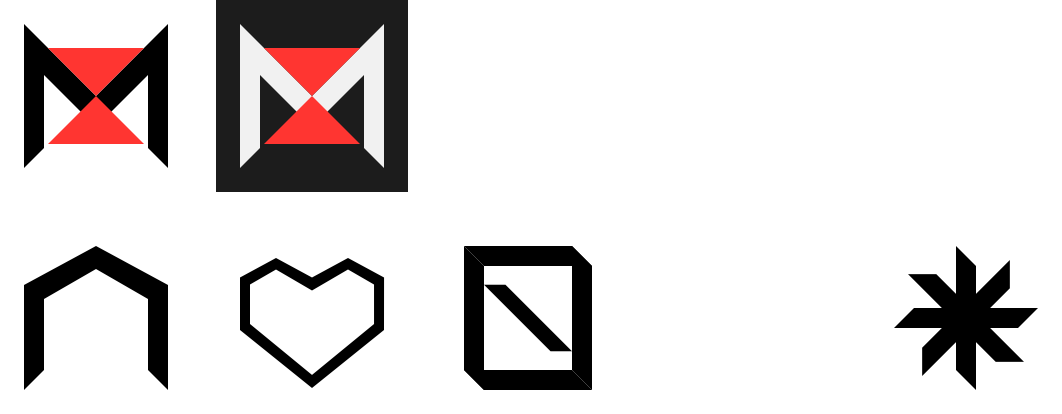
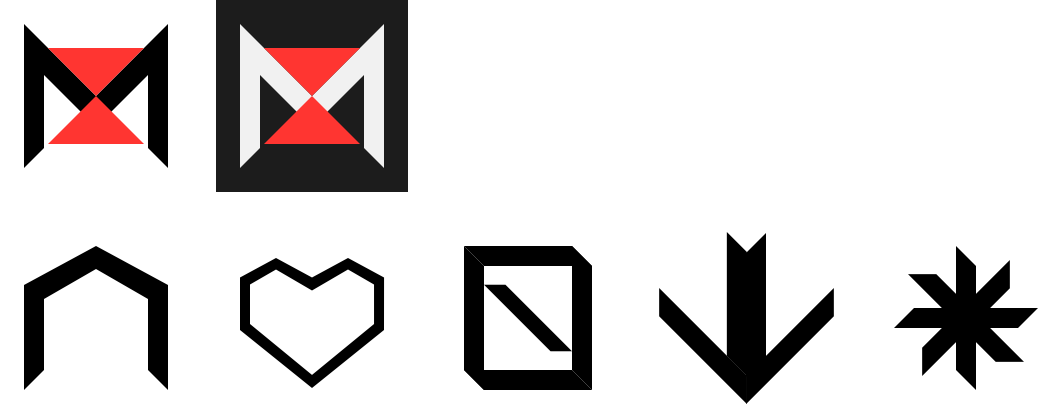
tests

Changed region(s): [[0.6215, 0.5507, 0.8079, 0.9855]]

diff --git a/main.js b/main.js
@@ -1,0 +1,95 @@
+class Manga {
+  id = 0;
+  name = '';
+  description = '';
+  chapters = [];
+  coverLink = '';
+  tags = [];
+
+  constructor() {}
+}
+
+function loadManga(manga) {
+  console.log('loading ' + manga.name);
+}
+
+function createMangaLink(manga) {
+  const but = document.createElement('button');
+  const img = document.createElement('img');
+  but.appendChild(img);
+  img.src = manga.coverLink;
+  img.loading = 'lazy';
+  but.addEventListener('click', () => loadManga(manga));
+  return but;
+}
+function createGallery(p_title) {
+  const title = document.createElement('h2');
+  const gallery = document.createElement('div');
+  const galleryContainer = document.createElement('div');
+
+  title.appendChild(document.createTextNode(p_title));
+  galleryContainer.appendChild(title);
+  galleryContainer.appendChild(gallery);
+  gallery.classList.add('gallery');
+  galleryContainer.classList.add('galleryContainer');
+  return galleryContainer;
+}
+
+addEventListener('load', () => {
+  const content = document.querySelector('.content');
+
+  let manga = new Manga();
+  manga.name = 'Murder License Kiba';
+  manga.coverLink =
+    'https://avt.mkklcdnv3.com/avatar_225/18497-murder_license_kiba.jpg';
+  manga.chapters.push(
+    ...`Murder License Kiba - Chapter 16: Shikisoku Zekuu
+Murder License Kiba - Chapter 15: Iron Lady
+Murder License Kiba - Chapter 14: Fangs In The Raging Sea!!
+Murder License Kiba - Chapter 13: The Tiananmen Square Incident
+Murder License Kiba - Chapter 12: A Dark Religion
+Murder License Kiba - Chapter 11: The World's Strongest
+Murder License Kiba - Chapter 10: The Heisei Revolution
+Murder License Kiba - Chapter 9: Diamond Hitman(Unfinished Translation)
+Murder License Kiba - Chapter 8: Kiba In Ny (Part 2)
+Murder License Kiba - Chapter 7: Kiba In Ny (Part 1)
+Murder License Kiba - Chapter 6: Fangs In The Jungle!
+Murder License Kiba - Chapter 5: Vestiges Of The Mother, Woman Of The Shadows
+Murder License Kiba - Chapter 4: Demonic Human Experiments
+Murder License Kiba - Chapter 3: An Unknown Woman
+Murder License Kiba - Vol.1 Chapter 2 : Red Tiger
+Murder License Kiba - Vol.1 Chapter 1 : The Man With The Murder License!!`.split(
+      '\n'
+    )
+  );
+  let gal = createGallery('testing');
+  for (let i = 0; i < 100; ++i) {
+    let ma = createMangaLink(manga);
+    gal.children[1].appendChild(ma);
+  }
+  content.appendChild(gal);
+  {
+    let gal = createGallery('testing');
+    for (let i = 0; i < 100; ++i) {
+      let ma = createMangaLink(manga);
+      gal.children[1].appendChild(ma);
+    }
+    content.appendChild(gal);
+  }
+  {
+    let gal = createGallery('testing');
+    for (let i = 0; i < 100; ++i) {
+      let ma = createMangaLink(manga);
+      gal.children[1].appendChild(ma);
+    }
+    content.appendChild(gal);
+  }
+  {
+    let gal = createGallery('testing');
+    for (let i = 0; i < 100; ++i) {
+      let ma = createMangaLink(manga);
+      gal.children[1].appendChild(ma);
+    }
+    content.appendChild(gal);
+  }
+});

diff --git a/index.html b/index.html
@@ -8,14 +8,13 @@
     />
     <title>MangaWeb: Read manga on the web</title>
     <link rel="stylesheet" href="style.css" />
-    <script src="main.js"></script>
     <link rel="apple-touch-icon" href="/Assets/exports/Dark.png" />
     <meta name="apple-mobile-web-app-title" content="MangaWeb" />
     <meta name="apple-mobile-web-app-capable" content="yes" />
     <meta name="apple-mobile-web-app-status-bar-style" content="white" />
   </head>
   <body>
-    <div class="content">bananases</div>
+    <div class="content"></div>
     <div class="footer">
       <button>
         <svg
@@ -76,7 +75,30 @@
           <path class="colorSVG" d="M32,24l108,0l20,20l-108,0l-20,-20Z" />
         </svg>
       </button>
-      <button></button>
+      <button>
+        <svg
+          width="100%"
+          height="100%"
+          viewBox="0 0 192 192"
+          version="1.1"
+          xmlns="http://www.w3.org/2000/svg"
+          xmlns:xlink="http://www.w3.org/1999/xlink"
+          xml:space="preserve"
+          xmlns:serif="http://www.serif.com/"
+          style="fill-rule:evenodd;clip-rule:evenodd;stroke-linejoin:round;stroke-miterlimit:2;"
+        >
+          <path
+            class="colorSVG"
+            d="M183.841,66.017l-87.682,87.681l0,28.285l87.682,-87.681l0,-28.285Z"
+          />
+          <path
+            class="colorSVG"
+            d="M9.159,66.017l87.682,87.681l0,28.285l-87.682,-87.681l0,-28.285Z"
+          />
+          <path class="colorSVG" d="M96.841,154l0,-124l-20,-20l0,124l20,20Z" />
+          <path class="colorSVG" d="M96,155l0,-124l20,-20l0,124l-20,20Z" />
+        </svg>
+      </button>
       <button>
         <svg
           width="100%"
@@ -121,5 +143,6 @@
         });
       }
     </script>
+    <script src="./main.js"></script>
   </body>
 </html>

diff --git a/style.css b/style.css
@@ -39,8 +39,11 @@
 html,
 body {
   overflow: hidden;
+  box-sizing: border-box;
   margin: 0;
   font-family: Helvetica Neue, sans-serif;
+  color: var(--fg);
+  background: var(--bgD);
 }
 body {
   position: relative;
@@ -71,4 +74,42 @@ body {
 
 .selected {
   fill: var(--accent);
+}
+
+.content {
+  overflow-y: auto;
+  height: calc(100vh - (0.75cm * var(--scale)));
+  padding: 1pc;
+  box-sizing: border-box;
+}
+
+.content::-webkit-scrollbar {
+  visibility: hidden;
+  width: 0;
+}
+
+.galleryContainer h2 {
+  padding-left: 1pc;
+}
+
+.gallery {
+  width: 100%;
+  height: calc(1in * var(--scale));
+  scroll-snap-type: x mandatory;
+  overflow-y: hidden;
+  overflow-x: scroll;
+  white-space: nowrap;
+}
+.gallery::-webkit-scrollbar {
+  visibility: hidden;
+  height: 0;
+}
+.gallery button {
+  scroll-snap-align: start;
+  border: none;
+  background: none;
+}
+.gallery img {
+  height: calc(1in * var(--scale));
+  width: auto;
 }

diff --git a/sw.js b/sw.js
@@ -1,4 +1,4 @@
-const PRECACHE = 'precache-v10';
+const PRECACHE = 'precache-v18';
 const RUNTIME = 'runtime';
 
 // A list of local resources we always want to be cached.
